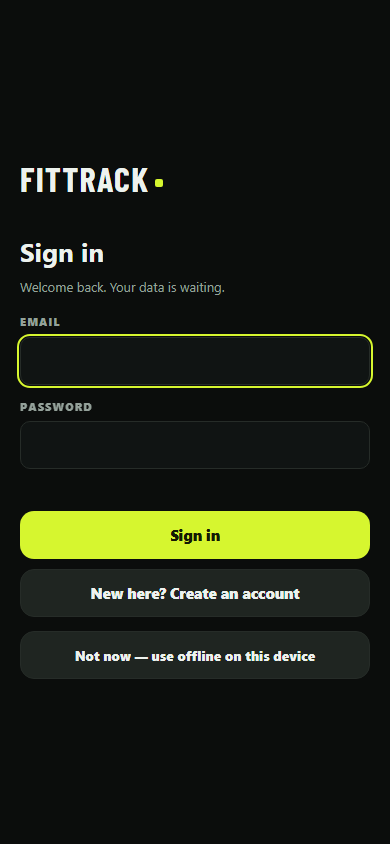
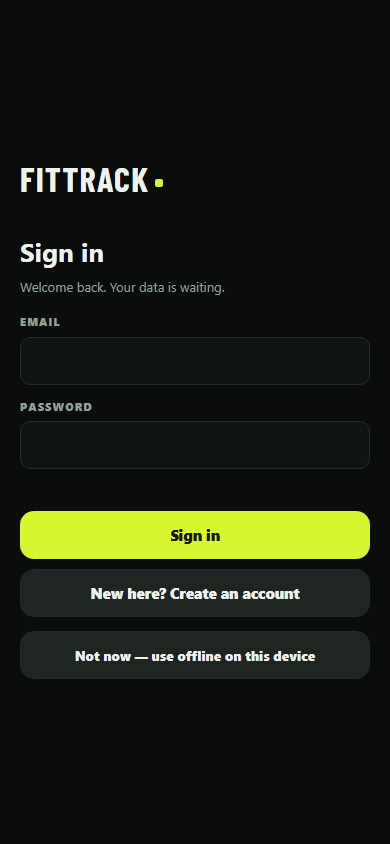
feat: update service worker cache version to v25; enhance chat message handling for long error texts

Changed region(s): [[0.1231, 0.4621, 0.2154, 0.4929], [0.9231, 0.4005, 0.9538, 0.4621], [0.0308, 0.4005, 0.0615, 0.4621]]

diff --git a/tests/coach-test.js b/tests/coach-test.js
@@ -78,6 +78,7 @@ function nextScripted(){return script.length?script.shift():{content:[{type:'tex
  script=[{status:429,error:'Daily coach limit reached (60).'}];
  await p.fill('#coachInput','hi');await p.click('#coachSendBtn');await wt(500);
  ok((await p.textContent('#coachChat .msg.err')).includes('Daily coach limit'),'server error surfaced in chat');
+ ok(await p.evaluate(()=>{CHAT.push({role:'assistant',err:true,ts:Date.now(),text:'⚠ 400 {"type":"error","error":{"type":"invalid_request_error","message":"messages.18: tool_use ids were found without tool_result blocks immediately after: toolu_01B5bVEfZgwQAiyShDrWNCrb"},"request_id":"req_011CeFQskNyonKzr3E8nin"}'});renderChat();const w=document.documentElement.scrollWidth<=window.innerWidth;CHAT.pop();renderChat();return w;}),'long unbroken error text wraps — no horizontal scroll at 390px');
  await p.reload();await p.waitForSelector('body[data-ready="1"]');await p.click('.nav [data-nav="coach"]');await wt(400);
  ok((await p.textContent('#coachChat')).includes('KB Row is in Day B'),'conversation persisted across reload');
  console.log('H. orphaned tool_use in saved transcript is healed');

diff --git a/styles.css b/styles.css
@@ -501,7 +501,7 @@ body.session-mode .view{padding-bottom:40px}
 
 /* ---------- Coach chat ---------- */
 .chat{display:flex;flex-direction:column;gap:8px;padding-bottom:70px}
-.msg{max-width:88%;padding:10px 12px;border-radius:14px;font-size:14.5px;line-height:1.4}
+.msg{max-width:88%;min-width:0;padding:10px 12px;border-radius:14px;font-size:14.5px;line-height:1.4;word-break:break-word;overflow-wrap:anywhere}
 .msg.me{align-self:flex-end;background:var(--volt);color:var(--volt-ink);border-bottom-right-radius:4px}
 .msg.ai{align-self:flex-start;background:var(--card);border:1px solid var(--line);border-bottom-left-radius:4px}
 .msg.ai p{margin:0 0 6px}.msg.ai p:last-child{margin:0}

diff --git a/service-worker.js b/service-worker.js
@@ -1,5 +1,5 @@
 /* FitTrack service worker — offline app shell */
-const CACHE = 'fittrack-v24';
+const CACHE = 'fittrack-v25';
 const ASSETS = [
   './',
   './index.html',

diff --git a/UI-UX-PLAN.md b/UI-UX-PLAN.md
@@ -8,7 +8,7 @@
 > preview/accept tools, onboarding → generated plans, 318-exercise library,
 > full-screen logger with PBs/history/volume, describe-to-log food + recipes,
 > weekly review, photo cloud sync, usage metering. Nav: Coach · Home · Train.
-> SW cache `fittrack-v24`. Supabase is fully configured (schema through stage 7,
+> SW cache `fittrack-v25`. Supabase is fully configured (schema through stage 7,
 > `coach` Edge Function live with `ANTHROPIC_API_KEY` secret, photos bucket).
 >
 > **The user is now living with the app for a week (until ~2026-08-27) and will
@@ -424,6 +424,7 @@ editor, create the auth user, enter credentials in ⚙ Settings (probe on
 
 | Date | Session summary |
 |---|---|
+| 2026-08-21 (cont. 2) | **Chat bubbles now wrap long unbroken strings** (user: the raw 400 error text forced the mobile page wider — had to side-scroll to reach Send). `.msg` gains `overflow-wrap:anywhere` + `word-break:break-word` + `min-width:0`; regression check in coach-test G injects the real 400 JSON and asserts no horizontal overflow at 390px — 49/49; views suite green. SW → `fittrack-v25`. Uncommitted. |
 | 2026-08-21 (cont.) | **Coach: ＋ New chat + Past chats archive** (user asked how to avoid the "big sausage"; agreed recommendation: cheap new-chat over heavy history management — the coach regenerates its context every turn, so a fresh chat costs nothing). Header "Clear" replaced by **＋ New** (files the conversation — visible bubbles only, no API replay state — into device-local kv `coachArchive`, capped at 15, auto-titled from the first user message, then starts clean; no confirm needed since nothing is destroyed) and **Past chats** (list modal → read-only viewer via new `chatBubble(m, readOnly)` — tool cards render without Accept/Discard; delete with confirm lives in the list). `coachClear` removed. Deliberately NOT built: multiple concurrent threads (one coach relationship; v3 flat/minimal), resuming archived chats (stale context, doubles complexity). Archives are frozen, so they're safe to sync cross-device later if wanted (live chat stays device-local by design). coach-test section I (9 checks: archive on new, fresh API transcript, list, read-only view, no Accept buttons, confirmed delete, empty state) — 48/48; views suite green at 3 widths. SW → `fittrack-v24`. Uncommitted. |
 | 2026-08-21 | **Bugfix: coach chat could wedge itself permanently (user hit it on the phone).** The saved transcript (kv `coachChat`) had an assistant `tool_use` message with no matching `tool_result` — `coachLoop` pushes the assistant turn into `CHAT_API` *before* running the tools, so any throw in between (tool/preview error, interruption while a preview waited) persisted the orphan, and every later request — even "Hello" — replayed it and 400'd (`tool_use ids were found without tool_result blocks`), with no way out short of Clear conversation. Fix in `coachai.js`: new `sanitizeApi()` (a) drops a trimmed/sliced head to the first plain user turn (the `slice(-CHAT_MAX_TURNS)` persist could keep tool_results whose tool_use was cut), and (b) inserts a synthetic `tool_result` ("Interrupted before this ran — NOT applied") after any orphaned `tool_use`; runs at the start of every `coachLoop` and before every persist, so existing broken devices self-heal on their next send. coach-test section H (3 new checks: seeded broken transcript → healed request shape → chat works again) — 39/39 green. SW → `fittrack-v23`. Uncommitted. |
 | 2026-08-20 | **Meal-plan generation + voice input.** The original complaint — "the meal plan is not for me and I don't know where to ask to change it" — is closed: new coach tool **`update_meal_plan`** replaces whole days (Mon–Sun × slots) with preview → accept; known foods are reused by exact name at the stated grams (Chicken breast 180 g → 1.8 servings), unknown items become custom per-100 g foods, replaced meals are written `custom:true` (reseed-proof), only the slots sent are touched, Today re-renders. `coachContext()` now carries the current meal plan with per-meal macros; system prompt: stay within ~5% of kcal target, protein ≥ target, honour dislikes/restrictions/rules, reuse saved foods/recipes; "Rework my meal plan" quick prompt. **Voice input**: 🎙 on the coach chat bar and the Home food box (Web Speech API — Chrome/Android + Safari 17+; hidden elsewhere), interim results into the input, tap to stop. mealplan suite 14 checks (context, preview totals, accept semantics, food reuse/creation maths, recompute ≈ stated kcal, mic visibility); coach-test updated to 11 tools; full regression green. SW → `fittrack-v22`. Uncommitted. Remaining ideas: bundled offline food DB + barcode, "shared plan updated" prompt. **Investigated (2026-08-20, user request): YMove Exercise API** (ymove.app/exercise-api — Your Move B.V., NL): 1,021+ pro exercise demo videos (HLS, male/female models), $19–299/mo. Verdict: adopt **videos only** at commercialisation time (Pro $29/mo = 350 unique exercises/mo ≥ our 318 catalog), behind an edge-function proxy (key server-side), mapped to our catalog by name/alias, online-only (their ToS forbids caching; URLs expire 48 h). Their AI workout/meal/food features duplicate what our coach already does better per-user — skip. Demo tier (10 exercises) is enough to prototype the mapping. **Also investigated (2026-08-20): MuscleWiki API** (api.musclewiki.com): 1,900+ exercises, male/female + front/side videos, rich metadata (~1:1 with our catalog: muscles×3, equipment, compound/isolation, force, difficulty, steps), 14 languages, 15-min **media tokens** minted server-side (perfect for our edge-function pattern), metadata cacheable 30 days (mapping can be built once + synced; only playback needs to be online). Free 500-call playground; $10/mo dev tier (English, non-commercial); commercial floor GROWTH $39.99/mo 30k calls (streams count as multiple calls); PROFESSIONAL $99.99 adds routines + bodymaps. **Preferred over YMove** (better client auth, cacheable metadata, richer taxonomy, cheap prototyping); open questions before paying: are "branded" videos watermarked at every tier, and how many quota units one stream consumes. |
